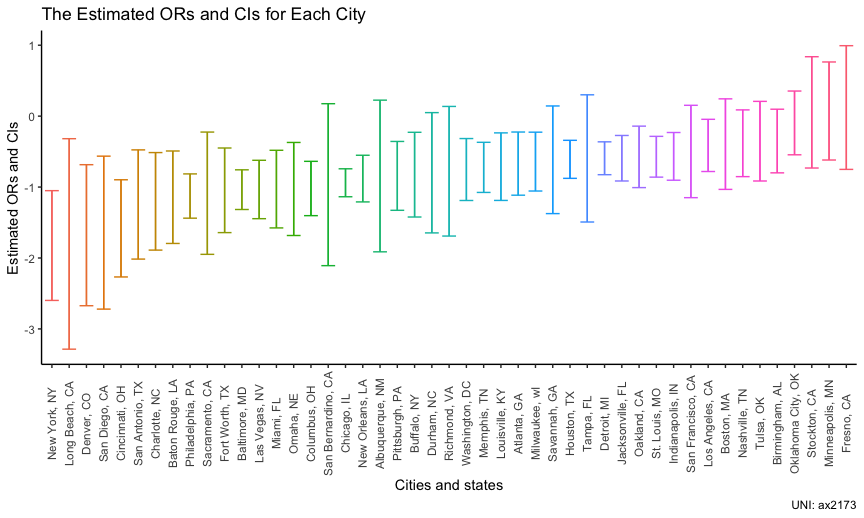
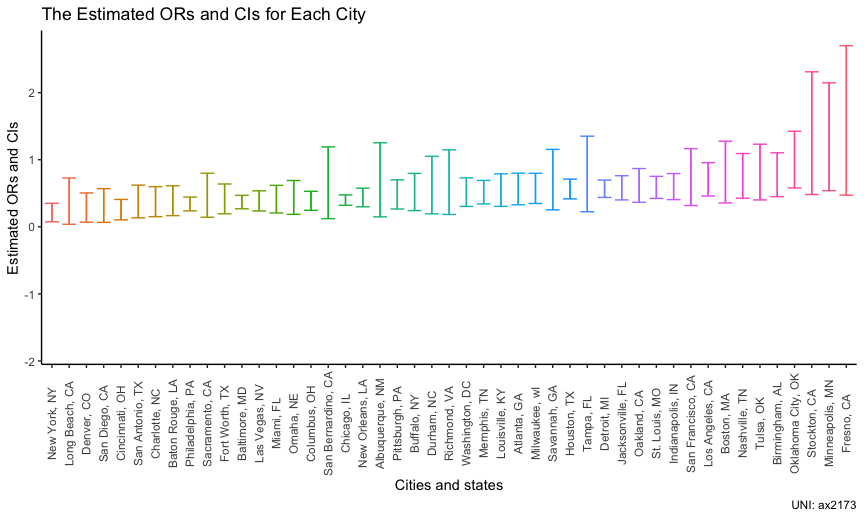
some changes in the ci for odds ratio

diff --git a/p8105_hw6_ax2173.md b/p8105_hw6_ax2173.md
@@ -113,8 +113,8 @@ Bal_glm =
 As for solving homicides comparing male victims to female victims
 keeping all other variables fixed, we can get these two things:
 
--   The estimated odds ratio is -1.037
--   The 95% confidence interval is (-1.316,-0.757)
+-   The estimated odds ratio is 0.355
+-   The 95% confidence interval is (0.268,0.469)
 
 Now run glm for each of the cities in your dataset, and extract the
 adjusted odds ratio (and CI) for solving homicides comparing male
@@ -132,8 +132,9 @@ homicide_df_models =
   unnest(result) %>% 
   filter(term == 'victim_sexMale') %>% 
   mutate(
-    CI_lowerbond = estimate - 1.96 * std.error,
-    CI_upperbond = estimate + 1.96 * std.error,
+    odds_estimate = exp(estimate),
+    CI_lowerbond = exp(estimate - 1.96 * std.error),
+    CI_upperbond = exp(estimate + 1.96 * std.error),
   ) %>% 
   select(city_state, estimate, CI_lowerbond, CI_upperbond) 
 
@@ -142,53 +143,53 @@ homicide_df_models %>% knitr::kable(digits = 3)
 
 | city_state         | estimate | CI_lowerbond | CI_upperbond |
 |:-------------------|---------:|-------------:|-------------:|
-| Albuquerque, NM    |   -0.844 |       -1.913 |        0.225 |
-| Atlanta, GA        |   -0.669 |       -1.115 |       -0.224 |
-| Baltimore, MD      |   -1.037 |       -1.316 |       -0.757 |
-| Baton Rouge, LA    |   -1.143 |       -1.795 |       -0.491 |
-| Birmingham, AL     |   -0.351 |       -0.800 |        0.098 |
-| Boston, MA         |   -0.395 |       -1.033 |        0.244 |
-| Buffalo, NY        |   -0.825 |       -1.422 |       -0.228 |
-| Charlotte, NC      |   -1.201 |       -1.889 |       -0.514 |
-| Chicago, IL        |   -0.939 |       -1.137 |       -0.742 |
-| Cincinnati, OH     |   -1.582 |       -2.267 |       -0.897 |
-| Columbus, OH       |   -1.020 |       -1.403 |       -0.637 |
-| Denver, CO         |   -1.679 |       -2.673 |       -0.685 |
-| Detroit, MI        |   -0.594 |       -0.826 |       -0.362 |
-| Durham, NC         |   -0.798 |       -1.646 |        0.050 |
-| Fort Worth, TX     |   -1.046 |       -1.642 |       -0.449 |
-| Fresno, CA         |    0.121 |       -0.751 |        0.993 |
-| Houston, TX        |   -0.609 |       -0.877 |       -0.341 |
-| Indianapolis, IN   |   -0.567 |       -0.903 |       -0.231 |
-| Jacksonville, FL   |   -0.593 |       -0.914 |       -0.273 |
-| Las Vegas, NV      |   -1.034 |       -1.446 |       -0.622 |
-| Long Beach, CA     |   -1.802 |       -3.286 |       -0.318 |
-| Los Angeles, CA    |   -0.413 |       -0.781 |       -0.045 |
-| Louisville, KY     |   -0.712 |       -1.188 |       -0.236 |
-| Memphis, TN        |   -0.722 |       -1.076 |       -0.369 |
-| Miami, FL          |   -1.029 |       -1.576 |       -0.481 |
-| Milwaukee, wI      |   -0.641 |       -1.056 |       -0.226 |
-| Minneapolis, MN    |    0.073 |       -0.619 |        0.764 |
-| Nashville, TN      |   -0.382 |       -0.853 |        0.088 |
-| New Orleans, LA    |   -0.880 |       -1.209 |       -0.552 |
-| New York, NY       |   -1.824 |       -2.598 |       -1.051 |
-| Oakland, CA        |   -0.574 |       -1.008 |       -0.141 |
-| Oklahoma City, OK  |   -0.096 |       -0.545 |        0.354 |
-| Omaha, NE          |   -1.027 |       -1.683 |       -0.371 |
-| Philadelphia, PA   |   -1.127 |       -1.439 |       -0.814 |
-| Pittsburgh, PA     |   -0.842 |       -1.328 |       -0.357 |
-| Richmond, VA       |   -0.777 |       -1.691 |        0.137 |
-| San Antonio, TX    |   -1.246 |       -2.015 |       -0.476 |
-| Sacramento, CA     |   -1.087 |       -1.949 |       -0.225 |
-| Savannah, GA       |   -0.615 |       -1.374 |        0.143 |
-| San Bernardino, CA |   -0.966 |       -2.108 |        0.175 |
-| San Diego, CA      |   -1.642 |       -2.721 |       -0.564 |
-| San Francisco, CA  |   -0.498 |       -1.150 |        0.153 |
-| St. Louis, MO      |   -0.573 |       -0.860 |       -0.285 |
-| Stockton, CA       |    0.053 |       -0.731 |        0.838 |
-| Tampa, FL          |   -0.596 |       -1.493 |        0.301 |
-| Tulsa, OK          |   -0.353 |       -0.914 |        0.208 |
-| Washington, DC     |   -0.753 |       -1.189 |       -0.316 |
+| Albuquerque, NM    |   -0.844 |        0.148 |        1.253 |
+| Atlanta, GA        |   -0.669 |        0.328 |        0.799 |
+| Baltimore, MD      |   -1.037 |        0.268 |        0.469 |
+| Baton Rouge, LA    |   -1.143 |        0.166 |        0.612 |
+| Birmingham, AL     |   -0.351 |        0.450 |        1.103 |
+| Boston, MA         |   -0.395 |        0.356 |        1.276 |
+| Buffalo, NY        |   -0.825 |        0.241 |        0.796 |
+| Charlotte, NC      |   -1.201 |        0.151 |        0.598 |
+| Chicago, IL        |   -0.939 |        0.321 |        0.476 |
+| Cincinnati, OH     |   -1.582 |        0.104 |        0.408 |
+| Columbus, OH       |   -1.020 |        0.246 |        0.529 |
+| Denver, CO         |   -1.679 |        0.069 |        0.504 |
+| Detroit, MI        |   -0.594 |        0.438 |        0.696 |
+| Durham, NC         |   -0.798 |        0.193 |        1.051 |
+| Fort Worth, TX     |   -1.046 |        0.194 |        0.638 |
+| Fresno, CA         |    0.121 |        0.472 |        2.700 |
+| Houston, TX        |   -0.609 |        0.416 |        0.711 |
+| Indianapolis, IN   |   -0.567 |        0.405 |        0.794 |
+| Jacksonville, FL   |   -0.593 |        0.401 |        0.761 |
+| Las Vegas, NV      |   -1.034 |        0.236 |        0.537 |
+| Long Beach, CA     |   -1.802 |        0.037 |        0.728 |
+| Los Angeles, CA    |   -0.413 |        0.458 |        0.956 |
+| Louisville, KY     |   -0.712 |        0.305 |        0.790 |
+| Memphis, TN        |   -0.722 |        0.341 |        0.691 |
+| Miami, FL          |   -1.029 |        0.207 |        0.618 |
+| Milwaukee, wI      |   -0.641 |        0.348 |        0.798 |
+| Minneapolis, MN    |    0.073 |        0.539 |        2.146 |
+| Nashville, TN      |   -0.382 |        0.426 |        1.092 |
+| New Orleans, LA    |   -0.880 |        0.298 |        0.576 |
+| New York, NY       |   -1.824 |        0.074 |        0.350 |
+| Oakland, CA        |   -0.574 |        0.365 |        0.868 |
+| Oklahoma City, OK  |   -0.096 |        0.580 |        1.424 |
+| Omaha, NE          |   -1.027 |        0.186 |        0.690 |
+| Philadelphia, PA   |   -1.127 |        0.237 |        0.443 |
+| Pittsburgh, PA     |   -0.842 |        0.265 |        0.700 |
+| Richmond, VA       |   -0.777 |        0.184 |        1.147 |
+| San Antonio, TX    |   -1.246 |        0.133 |        0.621 |
+| Sacramento, CA     |   -1.087 |        0.142 |        0.799 |
+| Savannah, GA       |   -0.615 |        0.253 |        1.154 |
+| San Bernardino, CA |   -0.966 |        0.121 |        1.192 |
+| San Diego, CA      |   -1.642 |        0.066 |        0.569 |
+| San Francisco, CA  |   -0.498 |        0.317 |        1.165 |
+| St. Louis, MO      |   -0.573 |        0.423 |        0.752 |
+| Stockton, CA       |    0.053 |        0.481 |        2.311 |
+| Tampa, FL          |   -0.596 |        0.225 |        1.351 |
+| Tulsa, OK          |   -0.353 |        0.401 |        1.231 |
+| Washington, DC     |   -0.753 |        0.304 |        0.729 |
 
 Create a plot that shows the estimated ORs and CIs for each city.
 Organize cities according to estimated OR, and comment on the plot.
@@ -634,7 +635,7 @@ weight_df_comparison %>%
   )
 ```
 
-<img src="p8105_hw6_ax2173_files/figure-gfm/unnamed-chunk-10-1.png" width="90%" />
+<img src="p8105_hw6_ax2173_files/figure-gfm/unnamed-chunk-11-1.png" width="90%" />
 
 From the chart, we can get the conclusion that my original model
 performs the worst, and the third model (model_2) performs the best.
